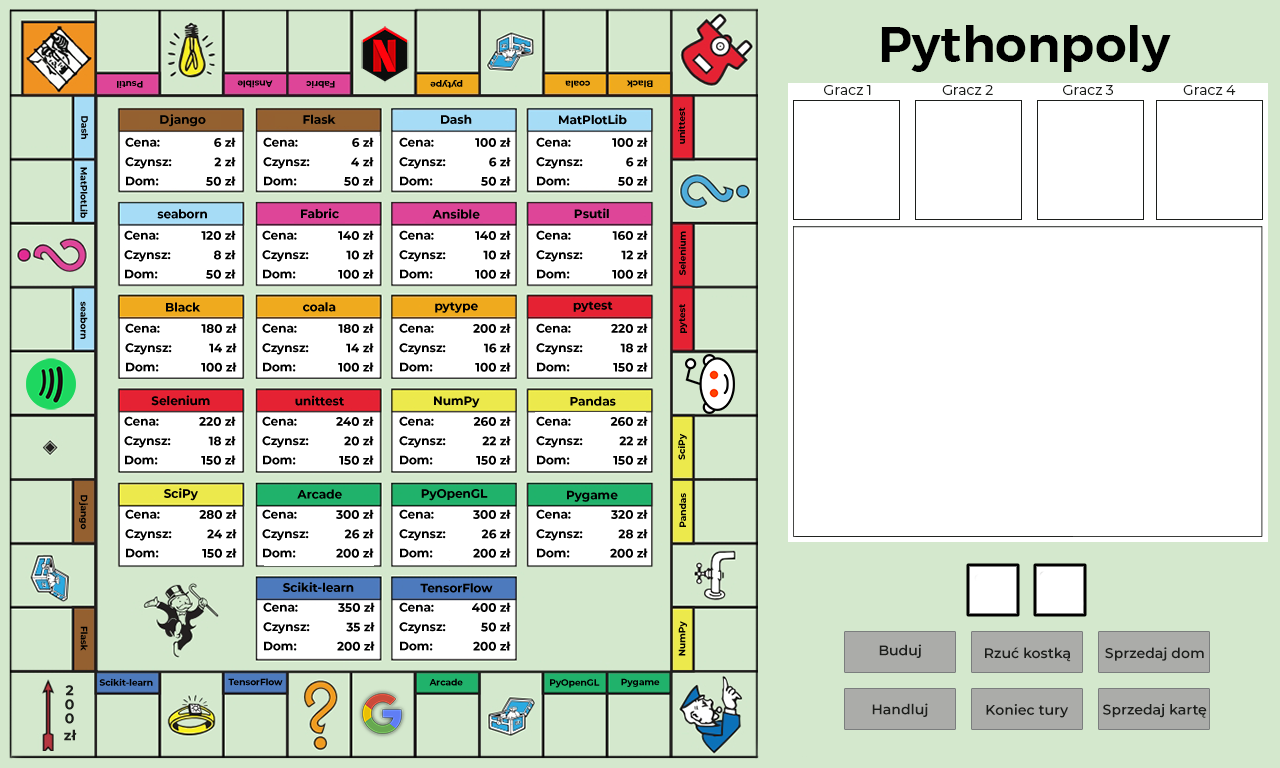
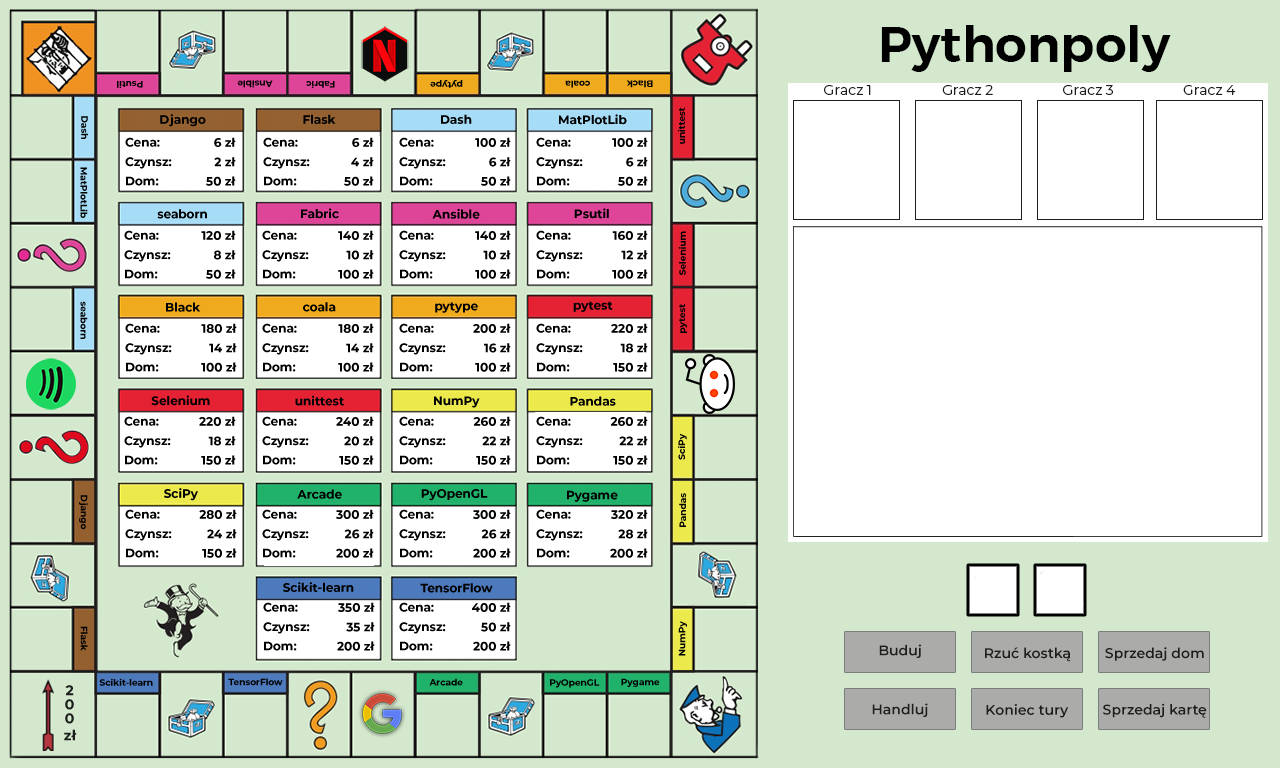
remove utility.py, change Utility cards to Chance

diff --git a/game/Game.py b/game/Game.py
@@ -54,7 +54,7 @@ class Game:
         dice = self.game_state.dice
         dices_number = dice.dice2_number + dice.dice1_number
         new_card_number = self.game_state.players[player_id].current_card
-        self.game_state.update_text(add_text=f"Byłeś na karcie {new_card_number}")
+        self.game_state.update_text(add_text=f"Byłeś na karcie {self.game_state.cards[new_card_number].name}")
         if dices_number == 12:
             self.game_state.update_text(add_text="Wyrzuciłeś 12, następny rzut nastąpi automatycznie")
             self.game_state.del_dice()
@@ -73,6 +73,7 @@ class Game:
         if new_card_number > 28:
             new_card_number -= 28
 
-        self.game_state.update_text(add_text=f"Wyrzuciłeś {dices_number}, przenosimy cię na kartę {new_card_number}")
+        self.game_state.update_text(
+            add_text=f"Wyrzuciłeś {dices_number}, przenosimy cię na kartę {self.game_state.cards[new_card_number].name}")
 
         self.game_state.move_player_to_card(player_id=player_id, card_id=new_card_number)

diff --git a/cards/__init__.py b/cards/__init__.py
@@ -2,4 +2,3 @@ from cards.card import Card
 from cards.cardsList import *
 from cards.company import Company
 from cards.street import Street
-from cards.utility import Utility
